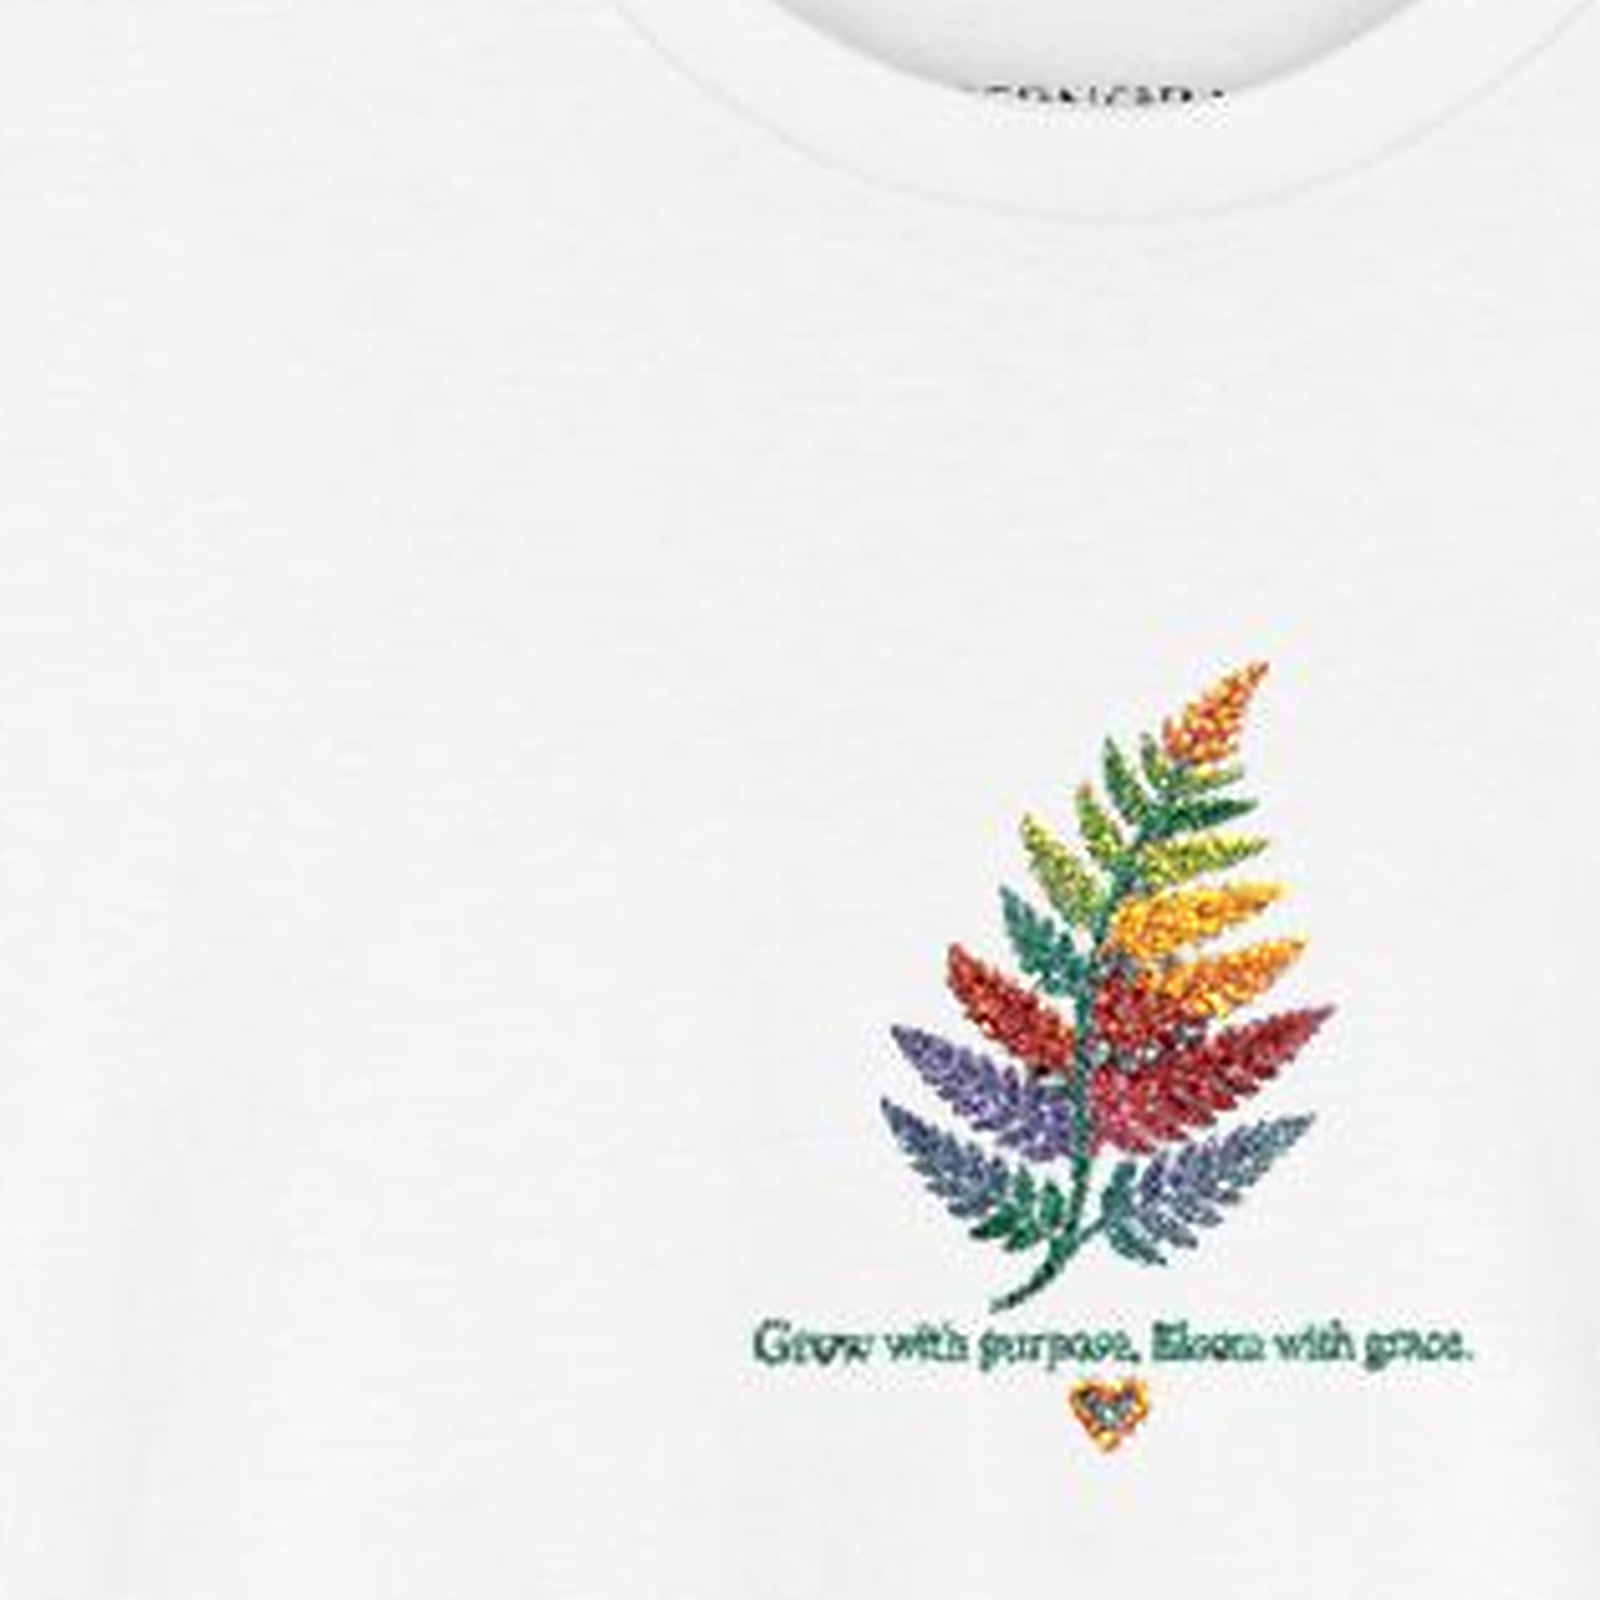
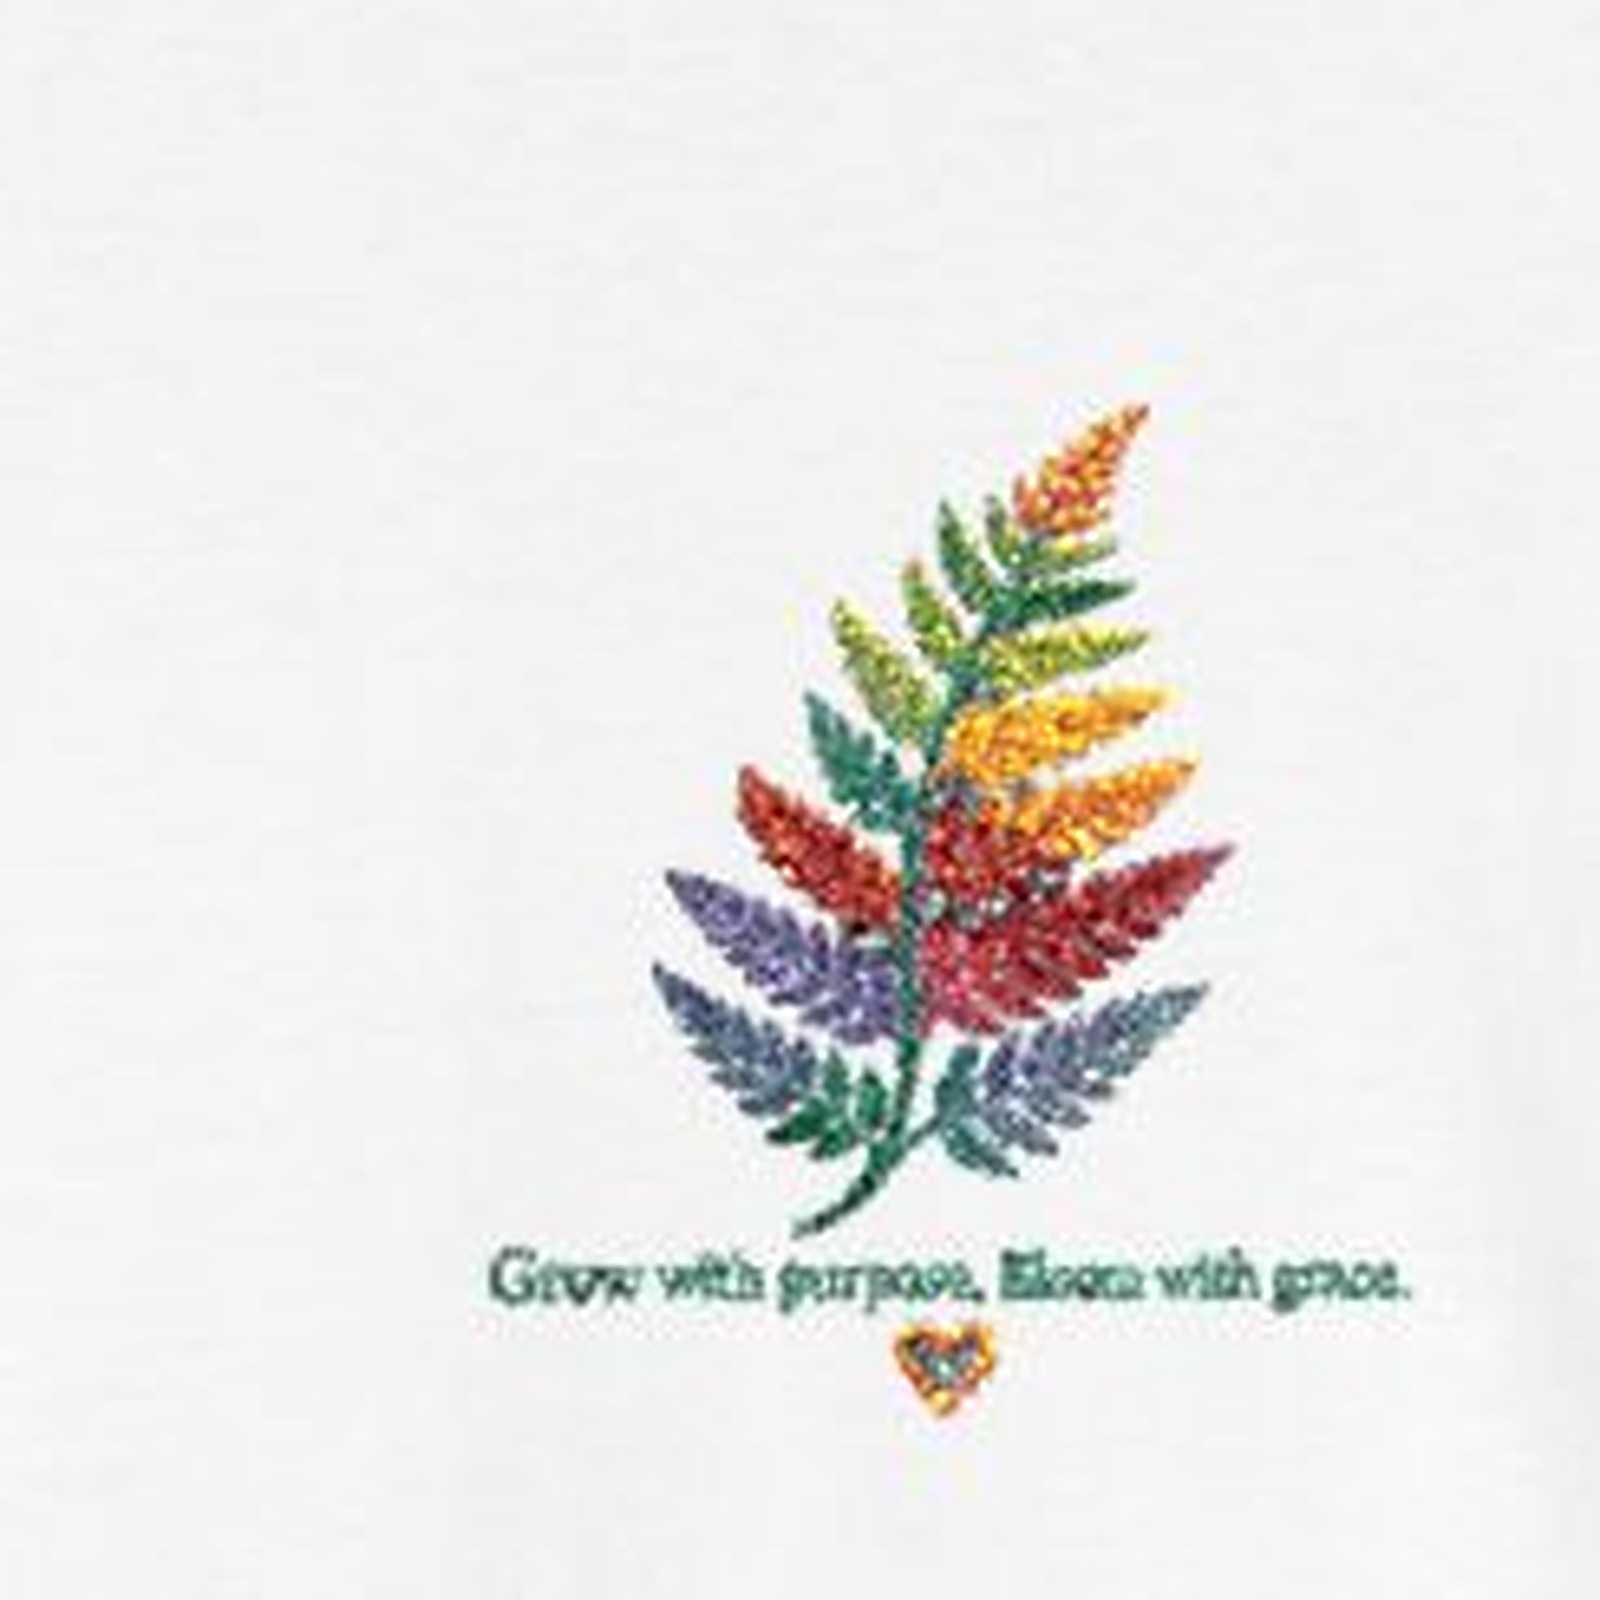
Correct the tee gallery: larger context crop, no tiny ghost tiles.
The close-up was readable but the second large tile and the ghost/model shots still hid the fern. Context fill is now 64%, and customer galleries drop full-garment ghost/model stills so the page stays on the design.

Changed region(s): [[0.2812, 0.25, 0.9375, 0.9062], [0.5, 0.0, 0.8125, 0.0938], [0.8125, 0.0, 0.875, 0.0312]]

diff --git a/src/lib/listing-health.test.ts b/src/lib/listing-health.test.ts
@@ -7,6 +7,7 @@ import {
   customerListingGallery,
   fillListingTags,
   isTemplateStillPath,
+  isTinyDesignStill,
   listingGallery,
   listingHealth,
   tagsForListing,
@@ -76,6 +77,11 @@ test("gallery lists the listing photo, print file, and extra stills", () => {
   assert.equal(customer[2], "/catalog/gallery-live_tee_bloom-onproduct.jpg");
   assert.ok(!customer.some((file) => file.includes("/print-")));
   assert.ok(!customer.some((file) => isTemplateStillPath(file)));
+  assert.ok(!customer.some((file) => isTinyDesignStill(file)));
+  assert.ok(!customer.includes("/catalog/gallery-live_tee_bloom-ghost.jpg"));
+  assert.ok(!customer.includes("/catalog/gallery-live_tee_bloom-model.jpg"));
+  assert.equal(isTinyDesignStill("/catalog/gallery-live_tee_bloom-ghost.jpg"), true);
+  assert.equal(isTinyDesignStill("/catalog/gallery-live_sneaker_star-camo-model.jpg"), false);
   assert.equal(isTemplateStillPath("/catalog/gallery-live_tee_bloom-detail.png"), true);
   assert.equal(isTemplateStillPath("/catalog/gallery-live_tee_bloom-close.png"), true);
   assert.equal(isTemplateStillPath("/catalog/gallery-live_tee_bloom-onproduct-close.jpg"), false);
@@ -124,7 +130,9 @@ test("on-product stills are generated from catalog pairs with a minimum design f
   const closeups = readFileSync(new URL("../../scripts/make-design-closeups.py", import.meta.url), "utf8");
   assert.match(closeups, /CATALOG_ART_PAIRS/);
   assert.match(closeups, /MIN_FILL/);
+  assert.match(closeups, /apparel_context": 0.58/);
   assert.match(closeups, /apparel_close": 0.72/);
+  assert.match(closeups, /CONTEXT_FILL = \{"apparel": 0.64/);
   assert.match(closeups, /CLOSE_FILL = \{"apparel": 0.80/);
   assert.doesNotMatch(closeups, /gallery-.+-detail\.png/);
 });

diff --git a/src/lib/listing-health.ts b/src/lib/listing-health.ts
@@ -127,6 +127,15 @@ export function isDesignZoomStill(file?: string | null) {
   return Boolean(file && /gallery-.+-onproduct(-close)?\.(png|jpe?g)$/i.test(file));
 }
 
+/** Full-garment ghost/model shots hide a small chest logo. Keep for Printify health only. */
+export function isTinyDesignStill(file?: string | null) {
+  return Boolean(
+    file &&
+      (/gallery-.+-ghost\.(png|jpe?g)$/i.test(file) ||
+        /gallery-live_(tee|hoodie)_[^/]+-model\.(png|jpe?g)$/i.test(file)),
+  );
+}
+
 export function listingGallery(id?: string | null, mockup?: string | null, print?: string | null) {
   const pair = id ? GALLERY_PAIRS[id] : undefined;
   const files = [
@@ -138,9 +147,9 @@ export function listingGallery(id?: string | null, mockup?: string | null, print
   return files;
 }
 
-/** Website and Etsy: hero + design on the product. Never print templates or cream art stills. */
+/** Website and Etsy: hero + design on the product. Never print templates or tiny full-garment stills. */
 export function customerListingGallery(id?: string | null, mockup?: string | null, print?: string | null) {
-  return listingGallery(id, mockup, print).filter((file) => !isTemplateStillPath(file));
+  return listingGallery(id, mockup, print).filter((file) => !isTemplateStillPath(file) && !isTinyDesignStill(file));
 }
 
 export function listingHealth(input: { tags?: string[]; gallery?: string[] }) {

diff --git a/src/app/shop/products/[id]/ui.tsx b/src/app/shop/products/[id]/ui.tsx
@@ -10,7 +10,7 @@ import { clothingColor, findClothingVariant, defaultClothingVariant } from "@/li
 import { shopLane } from "@/lib/shop";
 import { gelatoCountryName } from "@/lib/gelato-countries";
 import { POLICY_PATHS } from "@/lib/shop-policies";
-import { isTemplateStillPath } from "@/lib/listing-health";
+import { isTemplateStillPath, isTinyDesignStill } from "@/lib/listing-health";
 import { printSurface } from "@/lib/print-file";
 import type { LiveProduct } from "@/lib/live-catalog";
 import { useCart } from "../../cart-provider";
@@ -36,7 +36,7 @@ export function ProductDetail({ product }: { product: LiveProduct }) {
   const clothingSizes = [...new Map((product.variants || []).map((row) => [row.sizeUid, row])).values()];
   const preferred = defaultClothingVariant(product.variants);
   const gallery = [...new Set([product.imageUrl, ...(product.gallery || [])])].filter(
-    (file) => file && file !== product.printFileUrl && !isTemplateStillPath(file),
+    (file) => file && file !== product.printFileUrl && !isTemplateStillPath(file) && !isTinyDesignStill(file),
   );
   const [country, setCountry] = useState("NZ");
   const [color, setColor] = useState(preferred?.colorUid || clothingColors[0]?.colorUid || "black");

diff --git a/src/lib/shopify.ts b/src/lib/shopify.ts
@@ -3,7 +3,7 @@ import { existsSync } from "node:fs";
 import { readFile } from "node:fs/promises";
 import path from "node:path";
 import { defaultClothingVariant } from "@/lib/clothing";
-import { isDesignZoomStill, isTemplateStillPath } from "@/lib/listing-health";
+import { isDesignZoomStill, isTemplateStillPath, isTinyDesignStill } from "@/lib/listing-health";
 import { getCredentials, normalizeShopDomain, patchCredentials } from "@/lib/credentials";
 import { fernoraCatalog, FERNORA_NAME, gelatoShipFamilies, shopLane } from "@/lib/shop";
 import { FERNORA_SHOPIFY_SHOP, FERNORA_STOREFRONT_ORIGIN } from "@/lib/shopify-shop";
@@ -391,7 +391,10 @@ async function catalogProductImageSource(assetPath: string, request?: Request) {
 
 function customerGalleryPaths(product: ReturnType<typeof fernoraCatalog>[number]) {
   const skip = new Set(
-    [product.printFileUrl, ...(product.gallery || []).filter((file) => isTemplateStillPath(file))].filter(
+    [
+      product.printFileUrl,
+      ...(product.gallery || []).filter((file) => isTemplateStillPath(file) || isTinyDesignStill(file)),
+    ].filter(
       Boolean,
     ) as string[],
   );

diff --git a/src/lib/shop.test.ts b/src/lib/shop.test.ts
@@ -167,6 +167,7 @@ test("customer-facing shop copy does not name Gelato as the supplier", () => {
   assert.match(shopifySource, /grow-with-purpose-embroidered-tee/);
   assert.match(shopifySource, /isDesignZoomStill/);
   assert.match(shopifySource, /isTemplateStillPath/);
+  assert.match(shopifySource, /isTinyDesignStill/);
   assert.match(shopifySource, /refreshNames/);
   assert.match(shopifySource, /productReorderMedia/);
   assert.doesNotMatch(shopifySource, /escapeHtml\(GELATO_SHIP_BLURB\)/);
@@ -190,6 +191,7 @@ test("customer-facing shop copy does not name Gelato as the supplier", () => {
   assert.match(productPage, /clothingColors\.length > 1/);
   assert.match(productPage, /colorImage/);
   assert.match(productPage, /isTemplateStillPath/);
+  assert.match(productPage, /isTinyDesignStill/);
 });
 
 test("Catalog dropdown order is All, Quotes, Botanical, Scenic, Home décor, Original fern", () => {

diff --git a/scripts/make-design-closeups.py b/scripts/make-design-closeups.py
@@ -23,9 +23,9 @@ OUT = ROOT / "public" / "catalog"
 PRINT_FILE_TS = ROOT / "src" / "lib" / "print-file.ts"
 
 # Design bbox / crop-side. Apparel context keeps collar or zipper in frame.
-CONTEXT_FILL = {"apparel": 0.50, "default": 0.62}
+CONTEXT_FILL = {"apparel": 0.64, "default": 0.62}
 CLOSE_FILL = {"apparel": 0.80, "default": 0.88}
-MIN_FILL = {"apparel_context": 0.45, "apparel_close": 0.72, "default_close": 0.50}
+MIN_FILL = {"apparel_context": 0.58, "apparel_close": 0.72, "default_close": 0.50}
 OUTPUT_SIZE = 1600
 
 
@@ -135,11 +135,12 @@ def write_stills(key: str, source_name: str) -> str:
     apparel = is_apparel(key, source_name)
     box = design_bbox(im, apparel=apparel)
     kind = "apparel" if apparel else "default"
-    context_bias = (-0.18 if apparel else 0.0, -0.16 if apparel else 0.0)
+    context_bias = (0.0, 0.0)
     if apparel:
         img_cx = im.size[0] / 2
         design_cx = (box[0] + box[2]) / 2
-        context_bias = (-0.20 if design_cx > img_cx else 0.08, -0.16)
+        # Keep a sliver of collar / zipper without dropping the fern down the frame.
+        context_bias = (-0.10 if design_cx > img_cx else 0.04, -0.07)
     place_square(im, box, CONTEXT_FILL[kind], context_bias).save(wear, "JPEG", quality=93)
     place_square(im, box, CLOSE_FILL[kind]).save(close, "JPEG", quality=93)
     return f"wrote {key} from {source_name} fill ctx={CONTEXT_FILL[kind]} close={CLOSE_FILL[kind]}"
